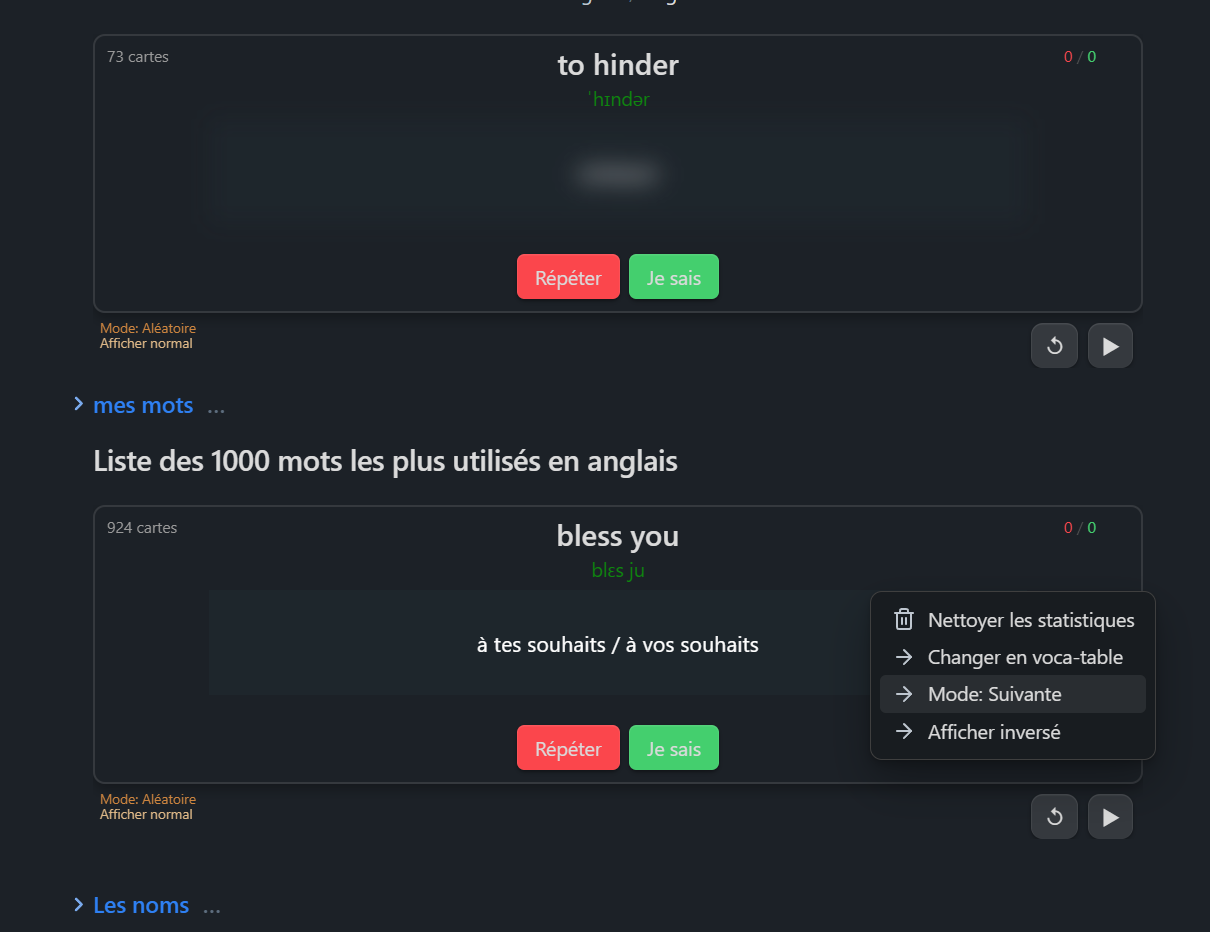
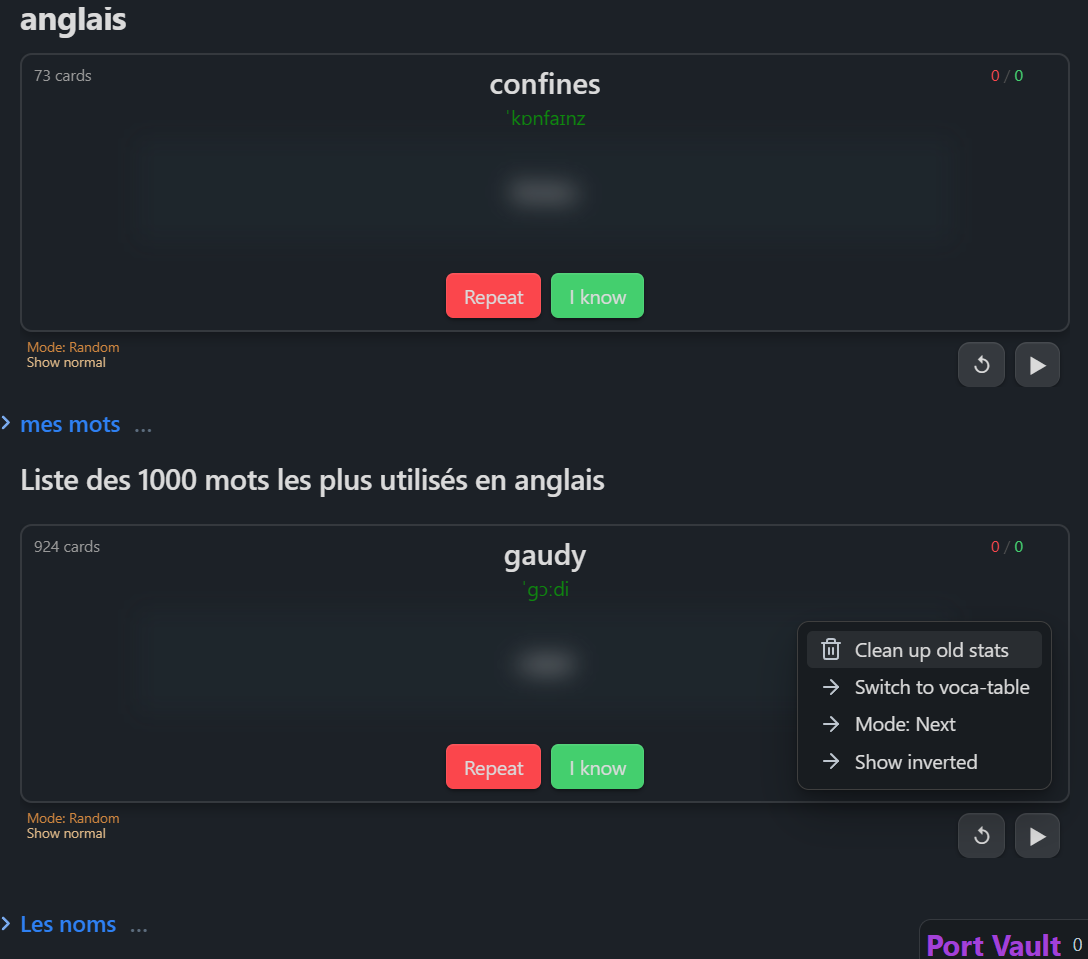
help

diff --git a/src/i10n.ts b/src/i10n.ts
@@ -2,7 +2,8 @@ interface i10n {
     [key: string]: string
 }
 
-export const userLang = navigator.language || 'en';
+// export const userLang = navigator.language || 'en';
+export const userLang = 'en';
 
 export const i10n: { iKnow: i10n, repeat: i10n, total: i10n, parseError: i10n, cards: i10n, reload: i10n, empty: i10n, noContext: i10n, nothingToClean: i10n, statsCleaned: i10n, random: i10n, next: i10n, clean: i10n, invert: i10n, normal: i10n, tableSwitch: i10n, cardSwitch: i10n, derivateTime: i10n, explanationTime: i10n } = {
     iKnow: {

diff --git a/README.md b/README.md
@@ -30,10 +30,8 @@ The play `▶/⏹` button starts/stops the automatic mode. Cards are then displa
 **Context menu**:
 - Clean data of deleted codeblocks.
 - Choose mode: `random` or `next`.
-- Show inverted: invert the expression and its explanation. Really usefull to learn in both directions.
+- Show inverted: invert the expression and its explanation (blured at first). Really usefull to learn in both directions.
 - Switch between codeblock languages: `voca-card` or `voca-table`. To avoid to have to edit the block manually.
-
-![alt text](assets/invert.png)
 
 [Idea to use it better to learn a language with perplexity AI](<assets/Idea to use it better to learn a language.md>)
 
